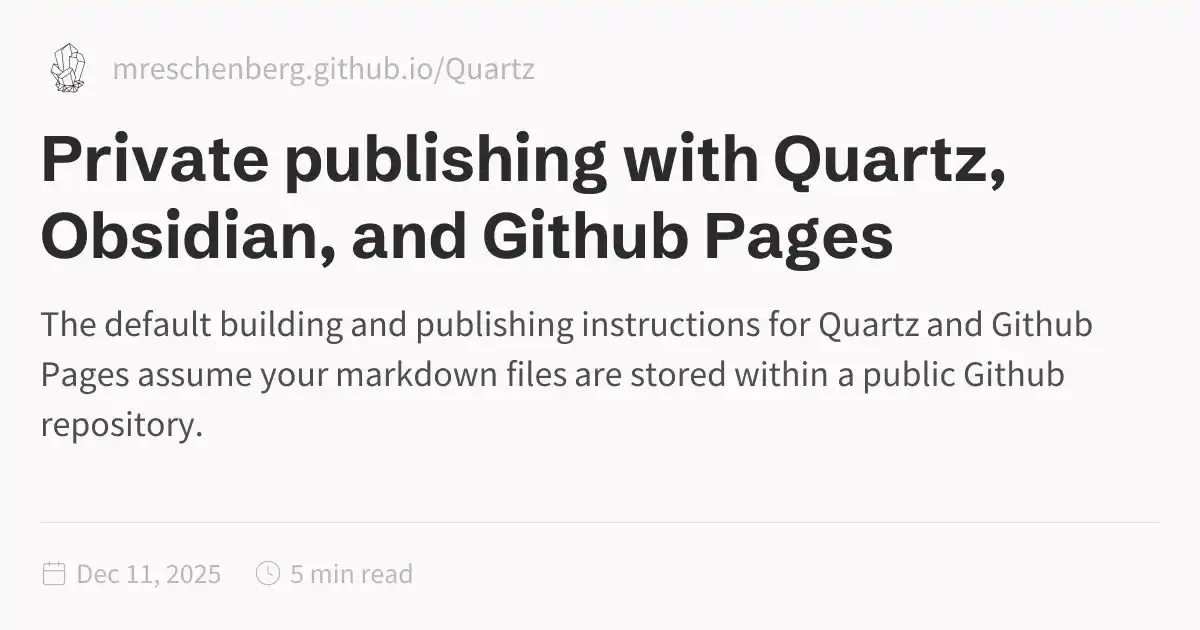
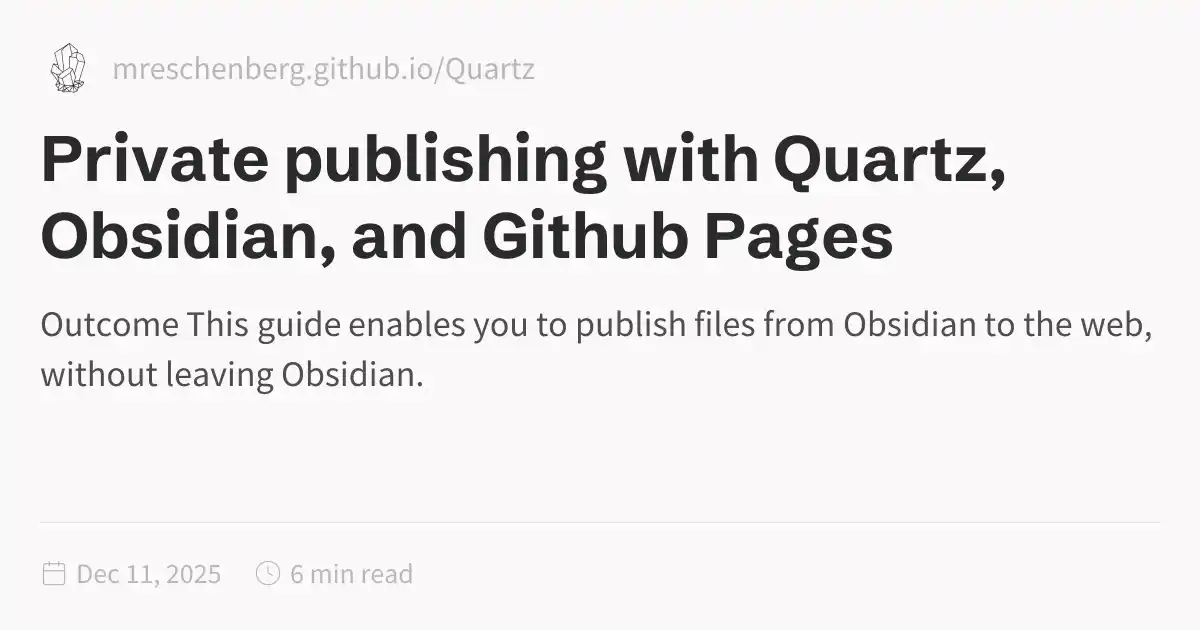
Quartz sync: Dec 11, 2025, 4:08 PM

Changed region(s): [[0.0308, 0.4825, 0.9558, 0.5429], [0.0308, 0.573, 0.8942, 0.6333], [0.0308, 0.6635, 0.185, 0.6937]]

diff --git a/docs/Private-publishing-with-Quartz,-Obsidian,-and-Github-Pages.html b/docs/Private-publishing-with-Quartz,-Obsidian,-and-Github-Pages.html
@@ -1,5 +1,5 @@
 <!DOCTYPE html>
-<html lang="en" dir="ltr"><head><title>Private publishing with Quartz, Obsidian, and Github Pages</title><meta charset="utf-8"/><link rel="preconnect" href="https://fonts.googleapis.com"/><link rel="preconnect" href="https://fonts.gstatic.com"/><link rel="stylesheet" href="https://fonts.googleapis.com/css2?family=Schibsted Grotesk:wght@400;700&amp;family=Source Sans Pro:ital,wght@0,400;0,600;1,400;1,600&amp;family=IBM Plex Mono:wght@400;600&amp;display=swap"/><link rel="preconnect" href="https://cdnjs.cloudflare.com" crossorigin="anonymous"/><meta name="viewport" content="width=device-width, initial-scale=1.0"/><meta name="og:site_name" content="Quartz 4"/><meta property="og:title" content="Private publishing with Quartz, Obsidian, and Github Pages"/><meta property="og:type" content="website"/><meta name="twitter:card" content="summary_large_image"/><meta name="twitter:title" content="Private publishing with Quartz, Obsidian, and Github Pages"/><meta name="twitter:description" content="The default building and publishing instructions for Quartz and Github Pages assume your markdown files are stored within a public Github repository."/><meta property="og:description" content="The default building and publishing instructions for Quartz and Github Pages assume your markdown files are stored within a public Github repository."/><meta property="og:image:alt" content="The default building and publishing instructions for Quartz and Github Pages assume your markdown files are stored within a public Github repository."/><meta property="twitter:domain" content="mreschenberg.github.io/Quartz"/><meta property="og:url" content="https://mreschenberg.github.io/Quartz/Private-publishing-with-Quartz,-Obsidian,-and-Github-Pages"/><meta property="twitter:url" content="https://mreschenberg.github.io/Quartz/Private-publishing-with-Quartz,-Obsidian,-and-Github-Pages"/><link rel="icon" href="./static/icon.png"/><meta name="description" content="The default building and publishing instructions for Quartz and Github Pages assume your markdown files are stored within a public Github repository."/><meta name="generator" content="Quartz"/><link href="./index.css" rel="stylesheet" type="text/css" data-persist="true"/><style>.expand-button {
+<html lang="en" dir="ltr"><head><title>Private publishing with Quartz, Obsidian, and Github Pages</title><meta charset="utf-8"/><link rel="preconnect" href="https://fonts.googleapis.com"/><link rel="preconnect" href="https://fonts.gstatic.com"/><link rel="stylesheet" href="https://fonts.googleapis.com/css2?family=Schibsted Grotesk:wght@400;700&amp;family=Source Sans Pro:ital,wght@0,400;0,600;1,400;1,600&amp;family=IBM Plex Mono:wght@400;600&amp;display=swap"/><link rel="preconnect" href="https://cdnjs.cloudflare.com" crossorigin="anonymous"/><meta name="viewport" content="width=device-width, initial-scale=1.0"/><meta name="og:site_name" content="Quartz 4"/><meta property="og:title" content="Private publishing with Quartz, Obsidian, and Github Pages"/><meta property="og:type" content="website"/><meta name="twitter:card" content="summary_large_image"/><meta name="twitter:title" content="Private publishing with Quartz, Obsidian, and Github Pages"/><meta name="twitter:description" content="Outcome This guide enables you to publish files from Obsidian to the web, without leaving Obsidian."/><meta property="og:description" content="Outcome This guide enables you to publish files from Obsidian to the web, without leaving Obsidian."/><meta property="og:image:alt" content="Outcome This guide enables you to publish files from Obsidian to the web, without leaving Obsidian."/><meta property="twitter:domain" content="mreschenberg.github.io/Quartz"/><meta property="og:url" content="https://mreschenberg.github.io/Quartz/Private-publishing-with-Quartz,-Obsidian,-and-Github-Pages"/><meta property="twitter:url" content="https://mreschenberg.github.io/Quartz/Private-publishing-with-Quartz,-Obsidian,-and-Github-Pages"/><link rel="icon" href="./static/icon.png"/><meta name="description" content="Outcome This guide enables you to publish files from Obsidian to the web, without leaving Obsidian."/><meta name="generator" content="Quartz"/><link href="./index.css" rel="stylesheet" type="text/css" data-persist="true"/><style>.expand-button {
   position: absolute;
   display: flex;
   float: right;
@@ -115,7 +115,10 @@ pre:hover > .expand-button {
   padding: 0 12px;
   font-size: 14px;
 }
[2 lines of base64/hex data omitted]
+<p>This guide enables you to publish files from Obsidian to the web, without leaving Obsidian. At the end of it, you’ll be able to press one keyboard command and have your files visible at a URL.</p>
+<h2 id="why-do-i-want-this">Why do I want this?<a role="anchor" aria-hidden="true" tabindex="-1" data-no-popover="true" href="#why-do-i-want-this" class="internal"><svg width="18" height="18" viewBox="0 0 24 24" fill="none" stroke="currentColor" stroke-width="2" stroke-linecap="round" stroke-linejoin="round"><path d="M10 13a5 5 0 0 0 7.54.54l3-3a5 5 0 0 0-7.07-7.07l-1.72 1.71"></path><path d="M14 11a5 5 0 0 0-7.54-.54l-3 3a5 5 0 0 0 7.07 7.07l1.71-1.71"></path></svg></a></h2>
+<p>The default building and publishing instructions for Quartz and Github Pages assume your markdown files are stored within a public Github repository. For those publishing from Obsidian, this may be undesirable — you may have both private and public files in your vault.</p>
 <p>The following instructions describe how to publish with Quartz on Github Pages while maintaining your Obsidian vault in a separate, non-public location.</p>
 <blockquote>
 <p>Note: These instructions require you use Obsidian on a machine that can build Quartz. This will not work, for example, from the Obsidian iOS app.</p>
@@ -179,6 +182,8 @@ pre:hover > .expand-button {
 </blockquote>
 <p>After you’ve created this command, you should be able to search and execute it from your Obsidian command palette.</p>
 <p>If you run into trouble with custom shells, <a href="https://publish.obsidian.md/shellcommands/Environments/Custom+shells/Settings+for+custom+shells" class="external">see these instructions<svg aria-hidden="true" class="external-icon" style="max-width:0.8em;max-height:0.8em;" viewBox="0 0 512 512"><path d="M320 0H288V64h32 82.7L201.4 265.4 178.7 288 224 333.3l22.6-22.6L448 109.3V192v32h64V192 32 0H480 320zM32 32H0V64 480v32H32 456h32V480 352 320H424v32 96H64V96h96 32V32H160 32z"></path></svg></a>.</p>
+<h4 id="hotkey-mapping">Hotkey Mapping<a role="anchor" aria-hidden="true" tabindex="-1" data-no-popover="true" href="#hotkey-mapping" class="internal"><svg width="18" height="18" viewBox="0 0 24 24" fill="none" stroke="currentColor" stroke-width="2" stroke-linecap="round" stroke-linejoin="round"><path d="M10 13a5 5 0 0 0 7.54.54l3-3a5 5 0 0 0-7.07-7.07l-1.72 1.71"></path><path d="M14 11a5 5 0 0 0-7.54-.54l-3 3a5 5 0 0 0 7.07 7.07l1.71-1.71"></path></svg></a></h4>
+<p>Because Obsidian is infinitely customisable, you are able to map this command to a hotkey combination. To do so, open Obsidian settings and navigate to “Hotkeys”. Then, search for “Shell command: Publish to Quartz”. Select it, press your desired key combination, and you’re all set!</p>
 <p>Enjoy!</p></article><hr/><div class="page-footer"></div></div><div class="right sidebar"><div class="graph"><h3>Graph View</h3><div class="graph-outer"><div class="graph-container" data-cfg="{&quot;drag&quot;:true,&quot;zoom&quot;:true,&quot;depth&quot;:1,&quot;scale&quot;:1.1,&quot;repelForce&quot;:0.5,&quot;centerForce&quot;:0.3,&quot;linkDistance&quot;:30,&quot;fontSize&quot;:0.6,&quot;opacityScale&quot;:1,&quot;showTags&quot;:true,&quot;removeTags&quot;:[],&quot;focusOnHover&quot;:false,&quot;enableRadial&quot;:false}"></div><button class="global-graph-icon" aria-label="Global Graph"><svg version="1.1" xmlns="http://www.w3.org/2000/svg" xmlns:xlink="http://www.w3.org/1999/xlink" x="0px" y="0px" viewBox="0 0 55 55" fill="currentColor" xml:space="preserve"><path d="M49,0c-3.309,0-6,2.691-6,6c0,1.035,0.263,2.009,0.726,2.86l-9.829,9.829C32.542,17.634,30.846,17,29,17
                 s-3.542,0.634-4.898,1.688l-7.669-7.669C16.785,10.424,17,9.74,17,9c0-2.206-1.794-4-4-4S9,6.794,9,9s1.794,4,4,4
                 c0.74,0,1.424-0.215,2.019-0.567l7.669,7.669C21.634,21.458,21,23.154,21,25s0.634,3.542,1.688,4.897L10.024,42.562
@@ -189,6 +194,6 @@ pre:hover > .expand-button {
                 C46.042,11.405,47.451,12,49,12c3.309,0,6-2.691,6-6S52.309,0,49,0z M11,9c0-1.103,0.897-2,2-2s2,0.897,2,2s-0.897,2-2,2
                 S11,10.103,11,9z M6,51c-2.206,0-4-1.794-4-4s1.794-4,4-4s4,1.794,4,4S8.206,51,6,51z M33,49c0,2.206-1.794,4-4,4s-4-1.794-4-4
                 s1.794-4,4-4S33,46.794,33,49z M29,31c-3.309,0-6-2.691-6-6s2.691-6,6-6s6,2.691,6,6S32.309,31,29,31z M47,41c0,1.103-0.897,2-2,2
-                s-2-0.897-2-2s0.897-2,2-2S47,39.897,47,41z M49,10c-2.206,0-4-1.794-4-4s1.794-4,4-4s4,1.794,4,4S51.206,10,49,10z"></path></svg></button></div><div class="global-graph-outer"><div class="global-graph-container" data-cfg="{&quot;drag&quot;:true,&quot;zoom&quot;:true,&quot;depth&quot;:-1,&quot;scale&quot;:0.9,&quot;repelForce&quot;:0.5,&quot;centerForce&quot;:0.2,&quot;linkDistance&quot;:30,&quot;fontSize&quot;:0.6,&quot;opacityScale&quot;:1,&quot;showTags&quot;:true,&quot;removeTags&quot;:[],&quot;focusOnHover&quot;:true,&quot;enableRadial&quot;:true}"></div></div></div><div class="toc desktop-only"><button type="button" class="toc-header" aria-controls="toc-1" aria-expanded="true"><h3>Table of Contents</h3><svg xmlns="http://www.w3.org/2000/svg" width="24" height="24" viewBox="0 0 24 24" fill="none" stroke="currentColor" stroke-width="2" stroke-linecap="round" stroke-linejoin="round" class="fold"><polyline points="6 9 12 15 18 9"></polyline></svg></button><ul id="list-1" class="toc-content overflow"><li class="depth-0"><a href="#lets-go" data-for="lets-go">Let’s go!</a></li><li class="depth-0"><a href="#quartz-customisation" data-for="quartz-customisation">Quartz Customisation</a></li><li class="depth-0"><a href="#building-serving-and-syncing-quartz" data-for="building-serving-and-syncing-quartz">Building, Serving, and Syncing Quartz</a></li><li class="depth-1"><a href="#building-and-serving" data-for="building-and-serving">Building and Serving</a></li><li class="depth-1"><a href="#syncing" data-for="syncing">Syncing</a></li><li class="depth-0"><a href="#publishing-to-github-pages" data-for="publishing-to-github-pages">Publishing to Github Pages</a></li><li class="depth-0"><a href="#pushing-changes-from-obsidian" data-for="pushing-changes-from-obsidian">Pushing Changes From Obsidian</a></li><li class="depth-1"><a href="#create-your-shell-script" data-for="create-your-shell-script">Create Your Shell Script</a></li><li class="depth-1"><a href="#use-obsidians-shell-command-plugin" data-for="use-obsidians-shell-command-plugin">Use Obsidian’s Shell Command Plugin</a></li><li class="overflow-end"></li></ul></div><div class="backlinks"><h3>Backlinks</h3><ul id="list-2" class="overflow"><li><a href="./Work/Documentation/Morgan's-Obsidian-Guide" class="internal">Morgan's Obsidian Guide</a></li><li class="overflow-end"></li></ul></div></div><footer class><p>Created with <a href="https://quartz.jzhao.xyz/">Quartz v4.5.2</a> © 2025</p><ul><li><a href="https://github.com/jackyzha0/quartz">GitHub</a></li><li><a href="https://discord.gg/cRFFHYye7t">Discord Community</a></li></ul></footer></div></div></body><script type="application/javascript" data-persist="true">function n(){let t=this.parentElement;t.classList.toggle("is-collapsed");let e=t.getElementsByClassName("callout-content")[0];if(!e)return;let l=t.classList.contains("is-collapsed");e.style.gridTemplateRows=l?"0fr":"1fr"}function c(){let t=document.getElementsByClassName("callout is-collapsible");for(let e of t){let l=e.getElementsByClassName("callout-title")[0],s=e.getElementsByClassName("callout-content")[0];if(!l||!s)continue;l.addEventListener("click",n),window.addCleanup(()=>l.removeEventListener("click",n));let o=e.classList.contains("is-collapsed");s.style.gridTemplateRows=o?"0fr":"1fr"}}document.addEventListener("nav",c);
+                s-2-0.897-2-2s0.897-2,2-2S47,39.897,47,41z M49,10c-2.206,0-4-1.794-4-4s1.794-4,4-4s4,1.794,4,4S51.206,10,49,10z"></path></svg></button></div><div class="global-graph-outer"><div class="global-graph-container" data-cfg="{&quot;drag&quot;:true,&quot;zoom&quot;:true,&quot;depth&quot;:-1,&quot;scale&quot;:0.9,&quot;repelForce&quot;:0.5,&quot;centerForce&quot;:0.2,&quot;linkDistance&quot;:30,&quot;fontSize&quot;:0.6,&quot;opacityScale&quot;:1,&quot;showTags&quot;:true,&quot;removeTags&quot;:[],&quot;focusOnHover&quot;:true,&quot;enableRadial&quot;:true}"></div></div></div><div class="toc desktop-only"><button type="button" class="toc-header" aria-controls="toc-1" aria-expanded="true"><h3>Table of Contents</h3><svg xmlns="http://www.w3.org/2000/svg" width="24" height="24" viewBox="0 0 24 24" fill="none" stroke="currentColor" stroke-width="2" stroke-linecap="round" stroke-linejoin="round" class="fold"><polyline points="6 9 12 15 18 9"></polyline></svg></button><ul id="list-1" class="toc-content overflow"><li class="depth-0"><a href="#outcome" data-for="outcome">Outcome</a></li><li class="depth-0"><a href="#why-do-i-want-this" data-for="why-do-i-want-this">Why do I want this?</a></li><li class="depth-0"><a href="#lets-go" data-for="lets-go">Let’s go!</a></li><li class="depth-0"><a href="#quartz-customisation" data-for="quartz-customisation">Quartz Customisation</a></li><li class="depth-0"><a href="#building-serving-and-syncing-quartz" data-for="building-serving-and-syncing-quartz">Building, Serving, and Syncing Quartz</a></li><li class="depth-1"><a href="#building-and-serving" data-for="building-and-serving">Building and Serving</a></li><li class="depth-1"><a href="#syncing" data-for="syncing">Syncing</a></li><li class="depth-0"><a href="#publishing-to-github-pages" data-for="publishing-to-github-pages">Publishing to Github Pages</a></li><li class="depth-0"><a href="#pushing-changes-from-obsidian" data-for="pushing-changes-from-obsidian">Pushing Changes From Obsidian</a></li><li class="depth-1"><a href="#create-your-shell-script" data-for="create-your-shell-script">Create Your Shell Script</a></li><li class="depth-1"><a href="#use-obsidians-shell-command-plugin" data-for="use-obsidians-shell-command-plugin">Use Obsidian’s Shell Command Plugin</a></li><li class="overflow-end"></li></ul></div><div class="backlinks"><h3>Backlinks</h3><ul id="list-2" class="overflow"><li><a href="./Work/Documentation/Morgan's-Obsidian-Guide" class="internal">Morgan's Obsidian Guide</a></li><li class="overflow-end"></li></ul></div></div><footer class><p>Created with <a href="https://quartz.jzhao.xyz/">Quartz v4.5.2</a> © 2025</p><ul><li><a href="https://github.com/jackyzha0/quartz">GitHub</a></li><li><a href="https://discord.gg/cRFFHYye7t">Discord Community</a></li></ul></footer></div></div></body><script type="application/javascript" data-persist="true">function n(){let t=this.parentElement;t.classList.toggle("is-collapsed");let e=t.getElementsByClassName("callout-content")[0];if(!e)return;let l=t.classList.contains("is-collapsed");e.style.gridTemplateRows=l?"0fr":"1fr"}function c(){let t=document.getElementsByClassName("callout is-collapsible");for(let e of t){let l=e.getElementsByClassName("callout-title")[0],s=e.getElementsByClassName("callout-content")[0];if(!l||!s)continue;l.addEventListener("click",n),window.addCleanup(()=>l.removeEventListener("click",n));let o=e.classList.contains("is-collapsed");s.style.gridTemplateRows=o?"0fr":"1fr"}}document.addEventListener("nav",c);
 </script><script type="module" data-persist="true">function E(a,e){if(!a)return;function t(o){o.target===this&&(o.preventDefault(),o.stopPropagation(),e())}function n(o){o.key.startsWith("Esc")&&(o.preventDefault(),e())}a?.addEventListener("click",t),window.addCleanup(()=>a?.removeEventListener("click",t)),document.addEventListener("keydown",n),window.addCleanup(()=>document.removeEventListener("keydown",n))}function f(a){for(;a.firstChild;)a.removeChild(a.firstChild)}var m=class{constructor(e,t){this.container=e;this.content=t;this.setupEventListeners(),this.setupNavigationControls(),this.resetTransform()}isDragging=!1;startPan={x:0,y:0};currentPan={x:0,y:0};scale=1;MIN_SCALE=.5;MAX_SCALE=3;cleanups=[];setupEventListeners(){let e=this.onMouseDown.bind(this),t=this.onMouseMove.bind(this),n=this.onMouseUp.bind(this),o=this.onTouchStart.bind(this),r=this.onTouchMove.bind(this),i=this.onTouchEnd.bind(this),s=this.resetTransform.bind(this);this.container.addEventListener("mousedown",e),document.addEventListener("mousemove",t),document.addEventListener("mouseup",n),this.container.addEventListener("touchstart",o,{passive:!1}),document.addEventListener("touchmove",r,{passive:!1}),document.addEventListener("touchend",i),window.addEventListener("resize",s),this.cleanups.push(()=>this.container.removeEventListener("mousedown",e),()=>document.removeEventListener("mousemove",t),()=>document.removeEventListener("mouseup",n),()=>this.container.removeEventListener("touchstart",o),()=>document.removeEventListener("touchmove",r),()=>document.removeEventListener("touchend",i),()=>window.removeEventListener("resize",s))}cleanup(){for(let e of this.cleanups)e()}setupNavigationControls(){let e=document.createElement("div");e.className="mermaid-controls";let t=this.createButton("+",()=>this.zoom(.1)),n=this.createButton("-",()=>this.zoom(-.1)),o=this.createButton("Reset",()=>this.resetTransform());e.appendChild(n),e.appendChild(o),e.appendChild(t),this.container.appendChild(e)}createButton(e,t){let n=document.createElement("button");return n.textContent=e,n.className="mermaid-control-button",n.addEventListener("click",t),window.addCleanup(()=>n.removeEventListener("click",t)),n}onMouseDown(e){e.button===0&&(this.isDragging=!0,this.startPan={x:e.clientX-this.currentPan.x,y:e.clientY-this.currentPan.y},this.container.style.cursor="grabbing")}onMouseMove(e){this.isDragging&&(e.preventDefault(),this.currentPan={x:e.clientX-this.startPan.x,y:e.clientY-this.startPan.y},this.updateTransform())}onMouseUp(){this.isDragging=!1,this.container.style.cursor="grab"}onTouchStart(e){if(e.touches.length!==1)return;this.isDragging=!0;let t=e.touches[0];this.startPan={x:t.clientX-this.currentPan.x,y:t.clientY-this.currentPan.y}}onTouchMove(e){if(!this.isDragging||e.touches.length!==1)return;e.preventDefault();let t=e.touches[0];this.currentPan={x:t.clientX-this.startPan.x,y:t.clientY-this.startPan.y},this.updateTransform()}onTouchEnd(){this.isDragging=!1}zoom(e){let t=Math.min(Math.max(this.scale+e,this.MIN_SCALE),this.MAX_SCALE),n=this.content.getBoundingClientRect(),o=n.width/2,r=n.height/2,i=t-this.scale;this.currentPan.x-=o*i,this.currentPan.y-=r*i,this.scale=t,this.updateTransform()}updateTransform(){this.content.style.transform=`translate(${this.currentPan.x}px, ${this.currentPan.y}px) scale(${this.scale})`}resetTransform(){let t=this.content.querySelector("svg").getBoundingClientRect(),n=t.width/this.scale,o=t.height/this.scale;this.scale=1,this.currentPan={x:(this.container.clientWidth-n)/2,y:(this.container.clientHeight-o)/2},this.updateTransform()}},T=["--secondary","--tertiary","--gray","--light","--lightgray","--highlight","--dark","--darkgray","--codeFont"],y;document.addEventListener("nav",async()=>{let e=document.querySelector(".center").querySelectorAll("code.mermaid");if(e.length===0)return;y||=await import("https://cdnjs.cloudflare.com/ajax/libs/mermaid/11.4.0/mermaid.esm.min.mjs");let t=y.default,n=new WeakMap;for(let r of e)n.set(r,r.innerText);async function o(){for(let s of e){s.removeAttribute("data-processed");let c=n.get(s);c&&(s.innerHTML=c)}let r=T.reduce((s,c)=>(s[c]=window.getComputedStyle(document.documentElement).getPropertyValue(c),s),{}),i=document.documentElement.getAttribute("saved-theme")==="dark";t.initialize({startOnLoad:!1,securityLevel:"loose",theme:i?"dark":"base",themeVariables:{fontFamily:r["--codeFont"],primaryColor:r["--light"],primaryTextColor:r["--darkgray"],primaryBorderColor:r["--tertiary"],lineColor:r["--darkgray"],secondaryColor:r["--secondary"],tertiaryColor:r["--tertiary"],clusterBkg:r["--light"],edgeLabelBackground:r["--highlight"]}}),await t.run({nodes:e})}await o(),document.addEventListener("themechange",o),window.addCleanup(()=>document.removeEventListener("themechange",o));for(let r=0;r<e.length;r++){let v=function(){let g=l.querySelector("#mermaid-space"),h=l.querySelector(".mermaid-content");if(!h)return;f(h);let w=i.querySelector("svg").cloneNode(!0);h.appendChild(w),l.classList.add("active"),g.style.cursor="grab",u=new m(g,h)},M=function(){l.classList.remove("active"),u?.cleanup(),u=null},i=e[r],s=i.parentElement,c=s.querySelector(".clipboard-button"),d=s.querySelector(".expand-button"),p=window.getComputedStyle(c),L=c.offsetWidth+parseFloat(p.marginLeft||"0")+parseFloat(p.marginRight||"0");d.style.right=`calc(${L}px + 0.3rem)`,s.prepend(d);let l=s.querySelector("#mermaid-container");if(!l)return;let u=null;d.addEventListener("click",v),E(l,M),window.addCleanup(()=>{u?.cleanup(),d.removeEventListener("click",v)})}});
 </script><script src="https://cdn.jsdelivr.net/npm/katex@0.16.11/dist/contrib/copy-tex.min.js" type="application/javascript" data-persist="true"></script><script src="./postscript.js" type="module" data-persist="true"></script></html>
